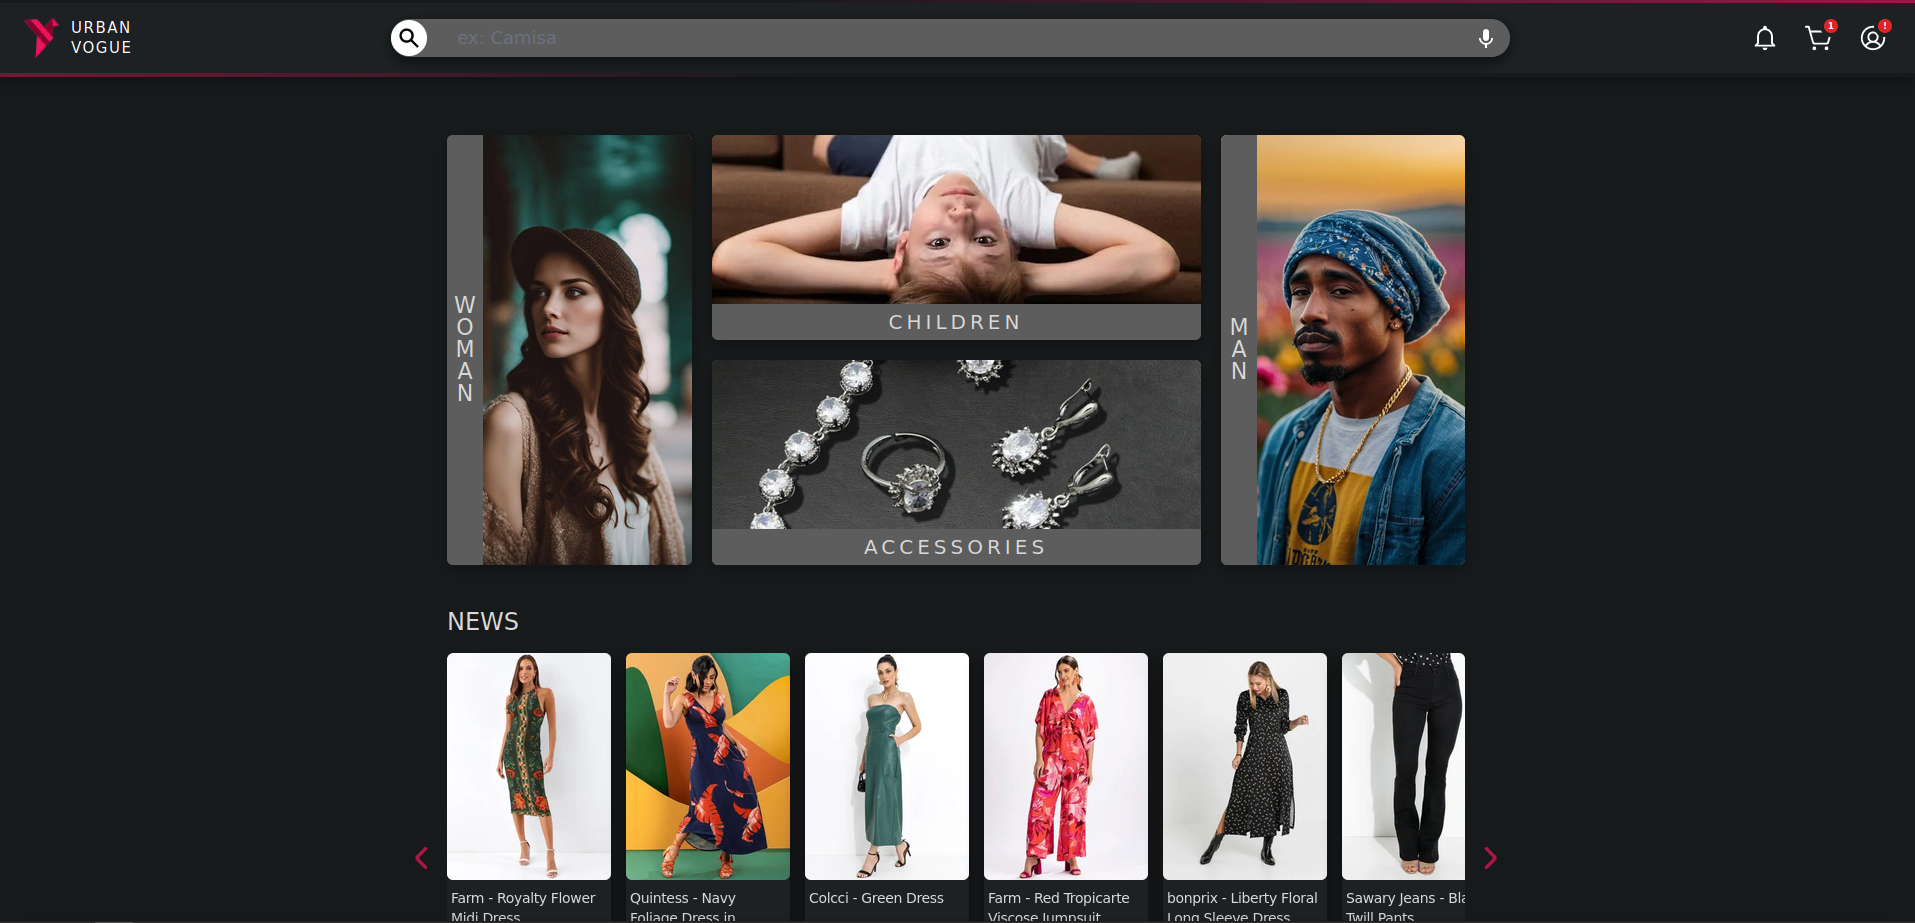
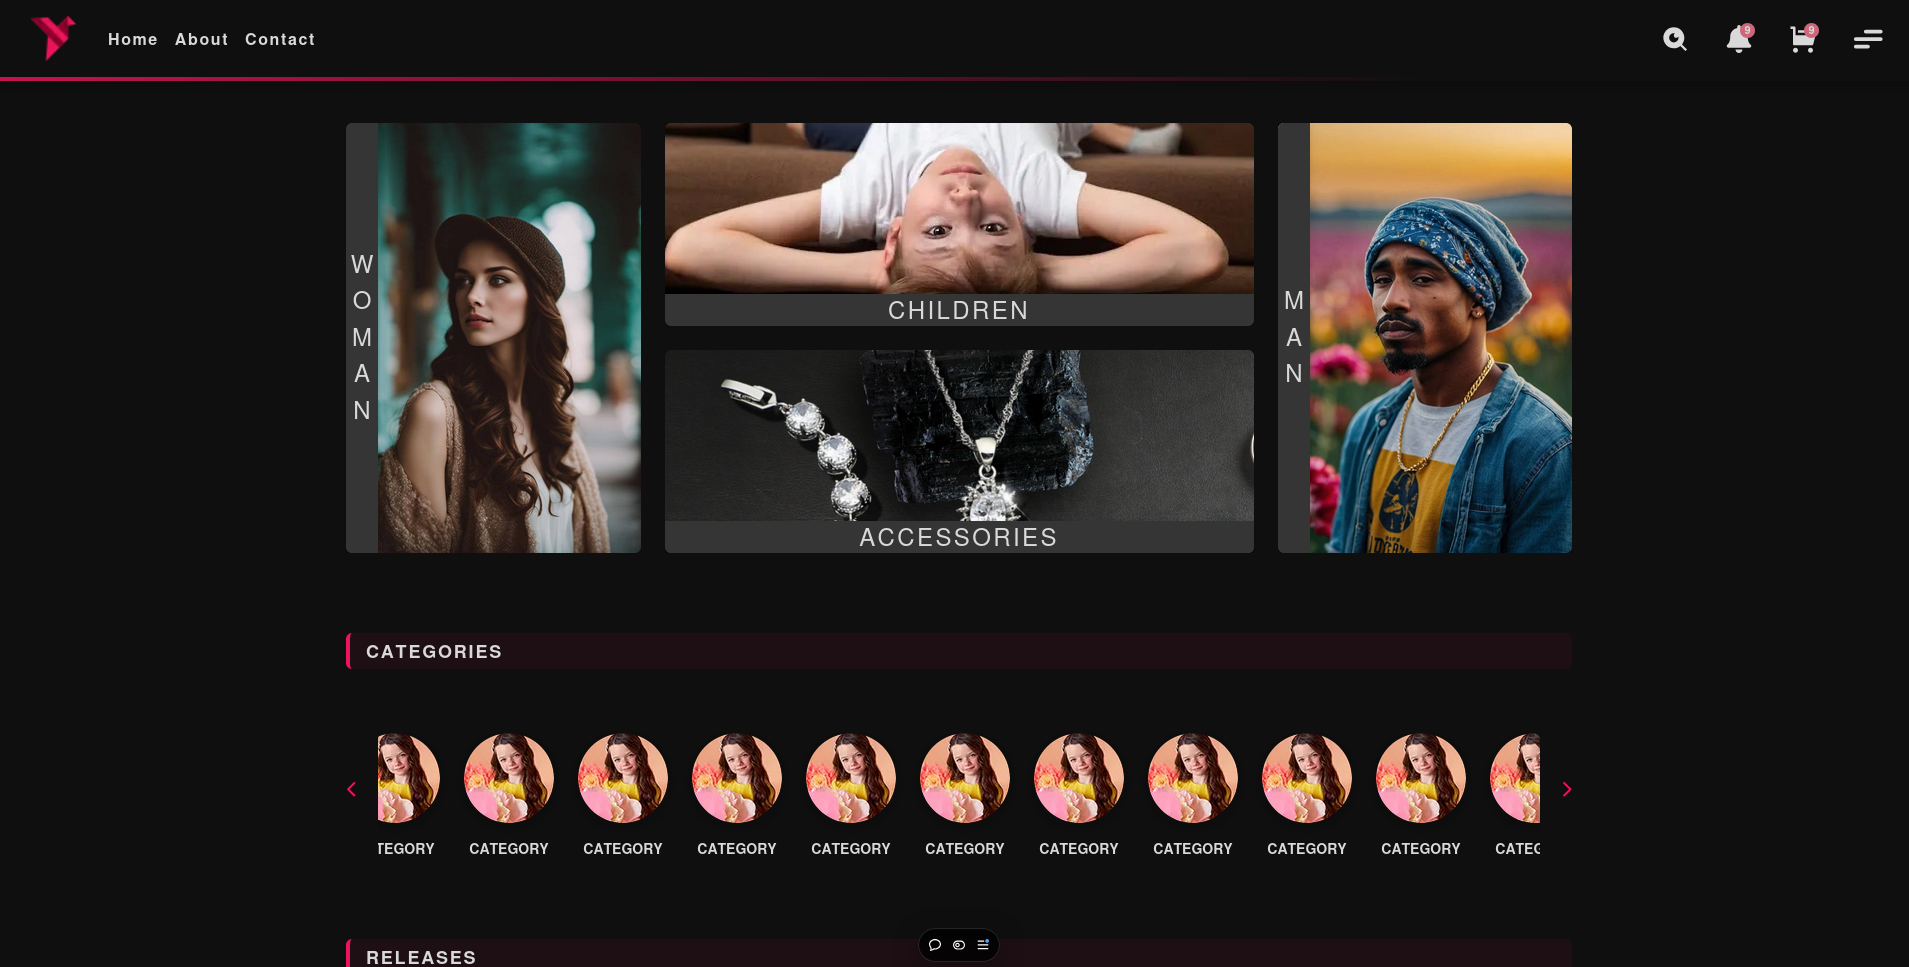
feat: about page

diff --git a/app/(pages)/about/page.tsx b/app/(pages)/about/page.tsx
@@ -24,24 +24,14 @@ function About() {
               <span className="w-14 h-14 max-sm:w-8 max-sm:h-8 rotate-45 border-[1px] border-[var(--color-text-primary)] opacity-50"></span>
             </div>
             <div className="w-full flex flex-col items-end  border-[1px] border-[var(--color-text-primary)] rounded-md  p-4 max-sm:min-w-[250px]">
-              <h3 className="text-xl font-semibold mb-4 max-sm:text-sm">
-                FRONT-END SKILLS
-              </h3>
-              <p className="text-sm max-md:text-xs text-primary/30 uppercase w-full text-end">
-                React.Js, Next.Js, NextAuth, JavaScript (ES6+), TypeScript,
-                Redux, HTML5, CSS3, Tailwind CSS...
-              </p>
+              <h3 className="text-xl font-semibold mb-4 max-sm:text-sm">FRONT-END SKILLS</h3>
+              <p className="text-sm max-md:text-xs text-primary/30 uppercase w-full text-end">React.Js, Next.Js, NextAuth, JavaScript (ES6+), TypeScript, Redux, HTML5, CSS3, Tailwind CSS...</p>
             </div>
           </div>
           <div className="w-full flex items-center justify-center gap-12 max-sm:gap-4">
             <div className="w-full flex flex-col border-[1px] border-[var(--color-text-primary)] rounded-md  p-4 max-sm:min-w-[250px]">
-              <h3 className="text-xl font-semibold mb-4 max-sm:text-sm">
-                BACK-END SKILLS
-              </h3>
-              <p className="text-sm max-md:text-xs text-primary/30 uppercase w-full">
-                JavaScript (ES6+), TypeScript, Express.js, Sequelize, Prisma,
-                SQL, NoSQL,Next.js, Strapi, Mercado Pago, Socket.IO...
-              </p>
+              <h3 className="text-xl font-semibold mb-4 max-sm:text-sm">BACK-END SKILLS</h3>
+              <p className="text-sm max-md:text-xs text-primary/30 uppercase w-full">JavaScript (ES6+), TypeScript, Express.js, Sequelize, Prisma, SQL, NoSQL,Next.js, Strapi, Mercado Pago, Socket.IO...</p>
             </div>
             <div className="w-full max-xl:hidden max-sm:flex flex items-center justify-center">
               <span className="w-14 h-14 max-sm:w-8 max-sm:h-8 rotate-45 border-[1px] border-[var(--color-text-primary)] opacity-50"></span>
@@ -52,23 +42,14 @@ function About() {
               <span className="w-14 h-14 max-sm:w-8 max-sm:h-8 rotate-45 border-[1px] border-[var(--color-text-primary)] opacity-50"></span>
             </div>
             <div className="w-full flex flex-col items-end  border-[1px] border-[var(--color-text-primary)] rounded-md  p-4 max-sm:min-w-[250px]">
-              <h3 className="text-xl font-semibold mb-4 max-sm:text-sm">
-                {i18n.t("about.other.title")}
-              </h3>
-              <p className="text-sm max-md:text-xs text-primary/30 uppercase w-full text-end">
-                {i18n.t("about.other.text")}
-              </p>
+              <h3 className="text-xl font-semibold mb-4 max-sm:text-sm">{i18n.t("about.other.title")}</h3>
+              <p className="text-sm max-md:text-xs text-primary/30 uppercase w-full text-end">{i18n.t("about.other.text")}</p>
             </div>
           </div>
         </div>
       </section>
       <div className="my-24 max-sm:my-12">
-        <svg
-          xmlns="http://www.w3.org/2000/svg"
-          width="132"
-          height="15"
-          viewBox="0 0 132 15"
-        >
+        <svg xmlns="http://www.w3.org/2000/svg" width="132" height="15" viewBox="0 0 132 15">
           <g id="Page-1" fill="none" fillRule="evenodd">
             <g id="Artboard-2" fill="var(--color-text-primary)" opacity={0.5}>
               <path
@@ -79,98 +60,16 @@ function About() {
           </g>
         </svg>
       </div>
-      <section className="flex w-full  mt-12 items-center flex-col pb-24 max-sm:pb-28">
-        <div className="flex border-[var(--color-text-primary)] border-[1px] p-4 rounded-md w-full max-w-[660px] max-sm:text-center max-sm:border-none relative">
-          <div className="w-full">
-            <h3 className="text-xl font-semibold mb-4 max-sm:text-xl relative">
-              <span className="line">{i18n.t("about.titles.three")}</span>
-            </h3>
-            <p className="max-md:text-sm ">{i18n.t("about.text.two")}</p>
-          </div>
-          <span className="absolute -right-12 -top-[60px]  border-[var(--color-text-primary)] border-[1px] min-w-[200px] h-[200px] z-10 opacity-50 max-sm:hidden"></span>
-          <span className="absolute -right-16 -top-10  border-[var(--color-text-primary)] border-[1px] min-w-[200px] h-[200px] z-10 opacity-50 max-sm:hidden"></span>
-          <div className="w-fit object-fill translate-x-20 -translate-y-14 duration-300 ease-linear max-sm:hidden grayscale hover:grayscale-0">
-            <Image
-              alt=""
-              src="/profile1.jpg"
-              quality={100}
-              priority
-              width={100}
-              height={100}
-              className="min-w-[200px] h-[200px]"
-            />
-          </div>
+      <section className="flex gap-10 w-full max-w-[1050px] pb-24">
+        <div className="w-2/5">
+          <Image src="/profile.jpg" quality={100} alt="" height={400} width={330} className="w-96 h-[500px] grayscale rounded-xl" />
         </div>
-        <div className="w-full flex justify-between mt-28 max-sm:flex-col max-sm:gap-28">
-          <div className="w-full max-sm:text-center">
-            <h4 className="text-xl ml-2 mb-5 uppercase">
-              {i18n.t("about.text.school")}
-            </h4>
-            <ul className="flex flex-col gap-4 max-sm:items-center">
-              <li className="flex gap-3 items-center text-xs font-medium uppercase">
-                {" "}
-                <span>
-                  <MdArrowRight className="text-lg opacity-25" />
-                </span>{" "}
-                <span>
-                  Escola da Nuvem - {i18n.t("about.text.three")} 16/06/2024
-                </span>
-              </li>
-              <li className="flex gap-3 items-center text-xs font-medium uppercase">
-                {" "}
-                <span>
-                  <MdArrowRight className="text-lg opacity-25" />
-                </span>{" "}
-                <span>
-                  Hackers do Bem - {i18n.t("about.text.three")} 02/02/2024
-                </span>
-              </li>
-              <li className="flex gap-3 items-center text-xs font-medium uppercase">
-                {" "}
-                <span>
-                  <MdArrowRight className="text-lg opacity-25" />
-                </span>{" "}
-                <span>
-                  ADS Anhanguera - {i18n.t("about.text.three")} 01/07/2024
-                </span>
-              </li>
-              <li className="flex gap-3 items-center text-xs font-medium uppercase">
-                {" "}
-                <span>
-                  <MdArrowRight className="text-lg opacity-25" />
-                </span>{" "}
-                <span> {i18n.t("about.text.english")}</span>
-              </li>
-            </ul>
-          </div>
-          <div className="w-full max-xl:hidden flex items-center justify-center">
-            <span className="w-14 h-14 max-sm:w-8 max-sm:h-8 rotate-45 border-[1px] border-[var(--color-text-primary)] opacity-50"></span>
-          </div>
-          <div className="w-full min-h-full">
-            <h4 className="text-xl mr-2 mb-5 text-end max-sm:text-center uppercase">
-              {i18n.t("about.text.experiece")}
-            </h4>
-            <ul className="flex flex-col gap-4 justify-end items-end max-sm:items-center">
-              <li className="flex gap-3 items-center text-xs font-medium uppercase max-sm:flex-row-reverse">
-                {" "}
-                <span>
-                  {i18n.t("about.text.studies")} - {i18n.t("about.text.three")}{" "}
-                  19/01/2023
-                </span>
-                <span>
-                  <MdArrowLeft className="text-lg opacity-25 max-sm:rotate-180" />
-                </span>{" "}
-              </li>
-              <li className="flex gap-3 items-center text-xs font-medium uppercase max-sm:flex-row-reverse">
-                {" "}
-                <span>
-                  FREELANCES - {i18n.t("about.text.three")} 10/06/2024
-                </span>
-                <span>
-                  <MdArrowLeft className="text-lg opacity-25 max-sm:rotate-180" />
-                </span>{" "}
-              </li>
-            </ul>
+        <div className="w-3/5 my-auto flex flex-col gap-5">
+          <p className="font-medium tracking-wide text-justify">Sou Apaixonado por transformar ideias em soluções reais, adoro desafios e aprendizado contínuo. Comecei de forma autônoma com HTML e CSS, avançando para tecnologias como Next.js, React, TypeScript e Tailwind para criar interfaces dinâmicas. Depois, aprofundei-me no backend com Nest.js e Express, que se tornaram essenciais no meu trabalho.</p>
+          <hr className="mt-12" />
+          <div>
+            <h3 className="font-bold">-- Fernando Esdras da Silva</h3>
+            <h4 className="ml-7 font-bold opacity-30 text-xs">FULLSTACK DEVELOPER</h4>
           </div>
         </div>
       </section>

diff --git a/app/globals.css b/app/globals.css
@@ -437,4 +437,7 @@
   border-radius: 5px !important;
   background-color: var(--color-bg-secondary) !important;
 }
-
+.writing {
+  writing-mode: sideways-lr;
+  text-orientation: upright;
+}
